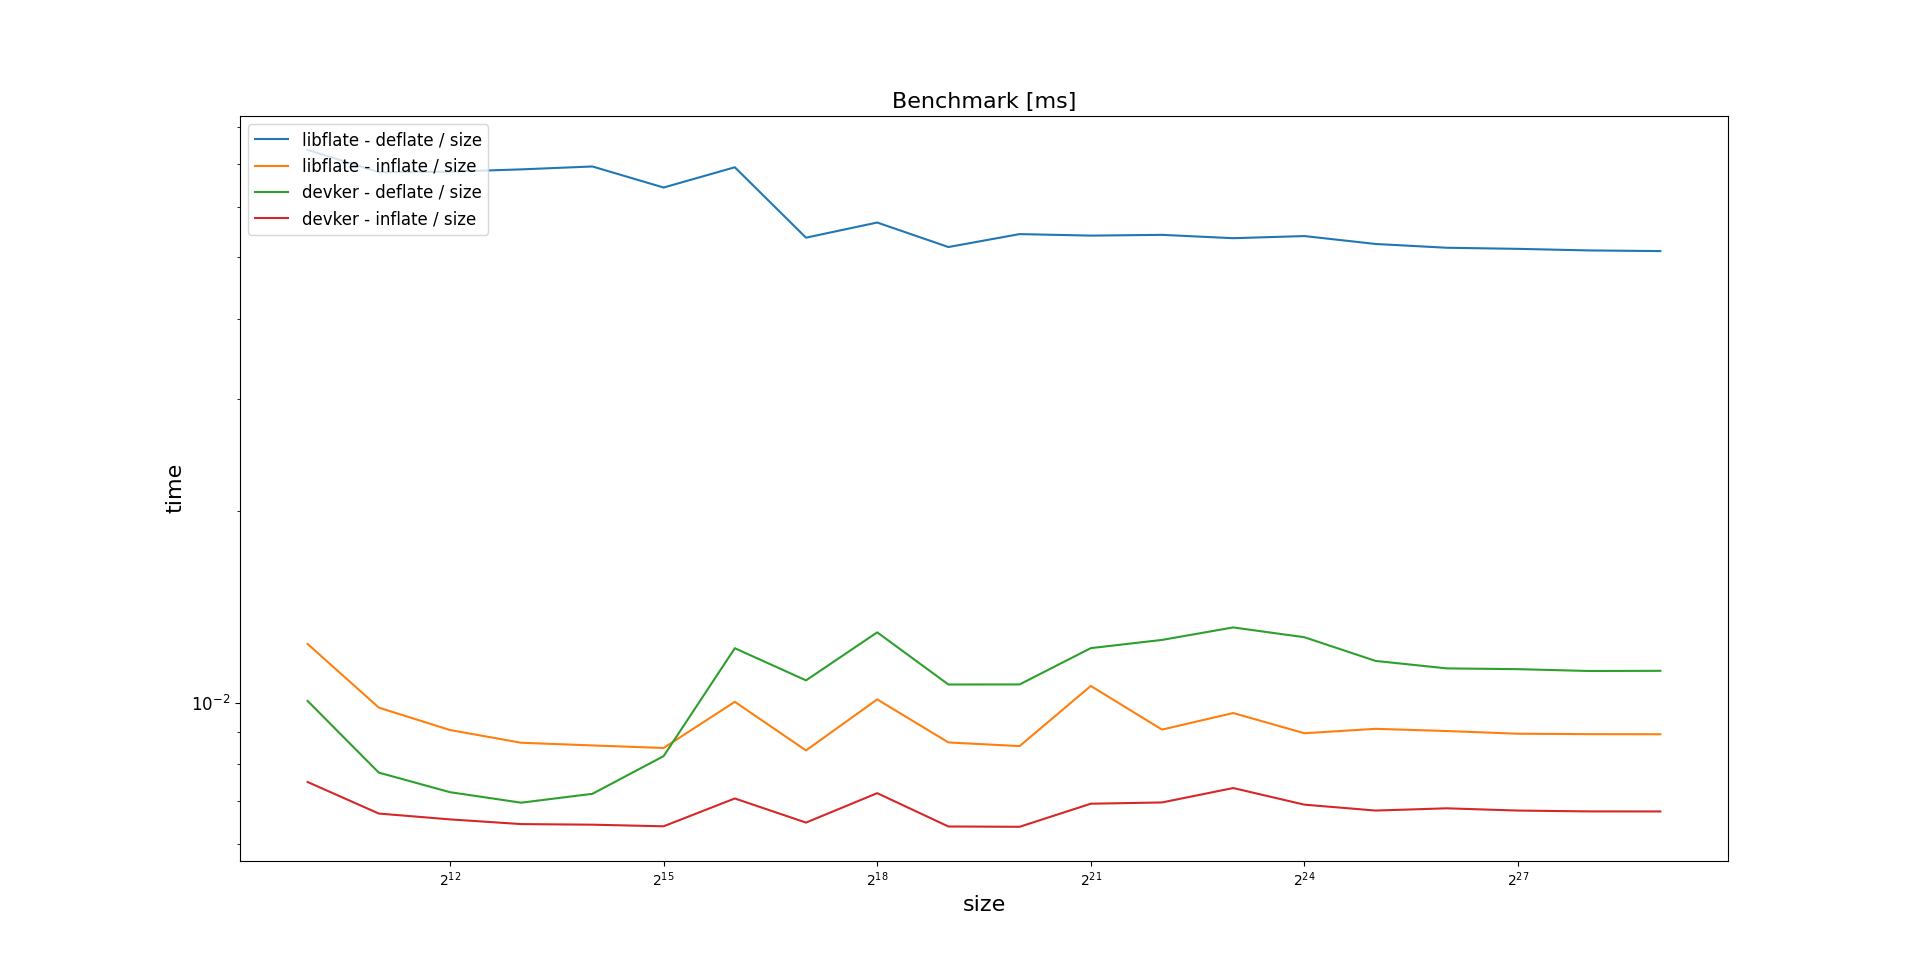
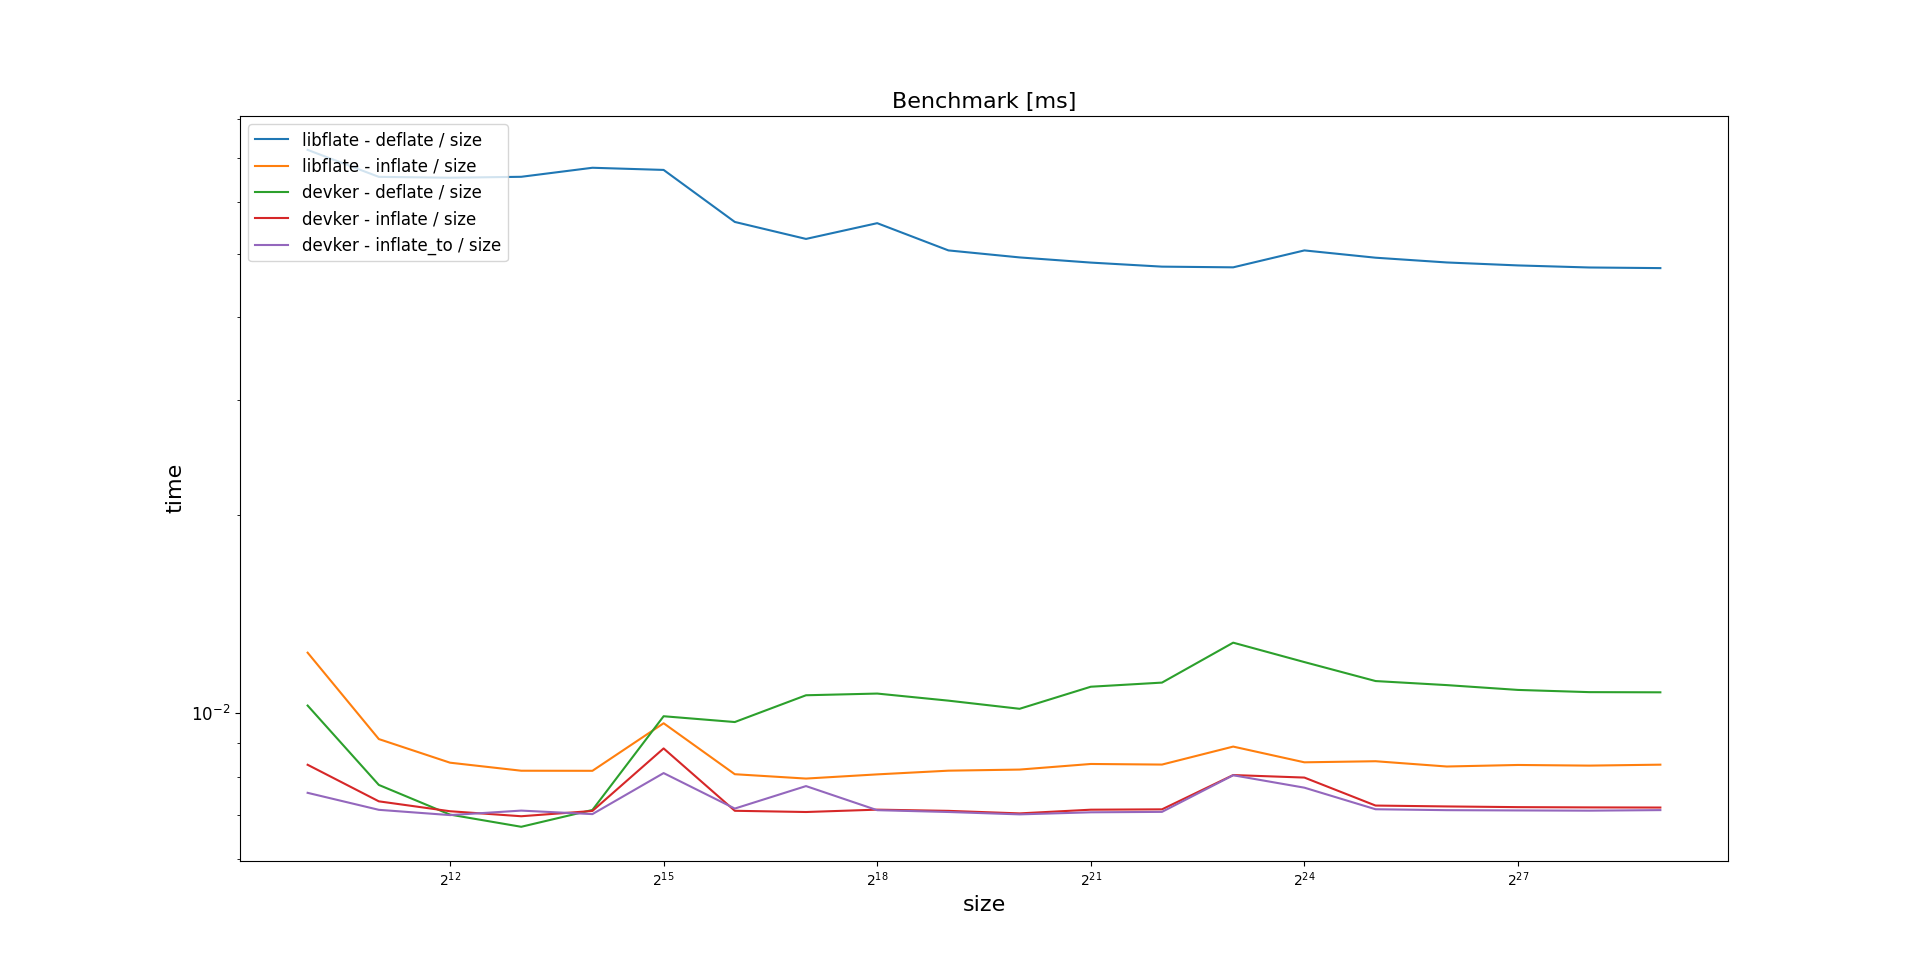
Improve performance of inflate + inflate_to

diff --git a/src/deflate.rs b/src/deflate.rs
@@ -53,6 +53,7 @@ use crate::prelude::{BlockType, Cache};
 const ERROR_BUFFER: &str = "Buffer overflow.";
 const ERROR_COMPLEMENT: &str = "LEN is not the one's complement of NLEN.";
 const ERROR_LENGTH: &str = "Invalid length.";
+const ERROR_POSITION: &str = "One distance is greater than current index.";
 const ERROR_PREVIOUS: &str = "No previous value.";
 const ERROR_RESERVED: &str = "Reserved btype.";
 const ERROR_VALUE: &str = "Invalid value decoded.";
@@ -148,7 +149,6 @@ impl<'a> Reader<'a> {
         Ok(())
     }
     fn load_widthes(&mut self, code: u16, last: Option<u8>) -> Result<Box<IterU8>, String> {
-        self.check_last_error()?;
         Ok(match code {
             0..=15 => Box::new(std::iter::once(code as u8)),
             16 => {
@@ -170,16 +170,22 @@ impl<'a> Reader<'a> {
             _ => return Err(ERROR_WIDTHES.into()),
         })
     }
-    fn fill(&mut self, v_out: &mut Vec<u8>, len: usize) -> Result<(), String> {
-        self.check_last_error()?;
+    fn fill(&mut self, v_out: &mut Vec<u8>, len: usize) {
         if self.v_in.len() < len {
-            return Err(ERROR_BUFFER.into());
+            self.last_error = Some(ERROR_BUFFER);
+            return;
         }
         v_out.reserve(len);
         let mut array = vec![0; len];
         (&mut array).copy_from_slice(&self.v_in[..len]);
         v_out.extend(array);
-        Ok(())
+    }
+    fn fill_to(&mut self, v_out: &mut [u8], pos: usize, len: usize) {
+        if self.v_in.len() < len || v_out.len() < pos + len {
+            self.last_error = Some(ERROR_BUFFER);
+            return;
+        }
+        (&mut v_out[pos..pos + len]).copy_from_slice(&self.v_in[..len]);
     }
 }
 impl<'a> HuffmanDecoder<'a> {
@@ -310,25 +316,25 @@ impl<'a> HuffmanDecoder<'a> {
         }
         eob_width
     }
-    fn decode(&self, reader: &mut Reader) -> Result<Code, String> {
+    fn decode(&self, reader: &mut Reader) -> Code {
         let code = reader.peek_bits(self.eob_width);
         let mut bits = Bits::from(self.literal[code as usize]);
         if bits.width > self.eob_width {
             let code = reader.peek_bits(self.max_lwidth);
             bits = Bits::from(self.literal[code as usize]);
             if bits.width > self.max_lwidth {
-                return Err(ERROR_WIDTH.into());
+                reader.last_error = Some(ERROR_WIDTH);
+                return Code::EndOfBlock;
             }
         }
         reader.skip_bits(bits.width);
-        reader.check_last_error()?;
 
-        Ok(match bits.data {
+        match bits.data {
             0..=255 => Code::Literal(bits.data as u8),
             256 => Code::EndOfBlock,
-            length_code @ 257..=285 => {
-                let (code_base_length, width_length) = LENGTH_TABLE[length_code as usize - 257];
-                let bits_length = reader.read_bits(width_length);
+            257..=285 => {
+                let (code_base_length, width_length) = LENGTH_TABLE[bits.data as usize - 257];
+                let bits_length = reader.read_bits(width_length) as u8;
 
                 let code = reader.get_code(self.distance, self.max_dwidth);
 
@@ -336,13 +342,40 @@ impl<'a> HuffmanDecoder<'a> {
                 let bits_distance = reader.read_bits(width_distance);
 
                 Code::Pointer {
-                    length: code_base_length + bits_length as u8,
+                    length: code_base_length + bits_length,
                     distance: code_base_distance + bits_distance,
                 }
             }
-            _ => return Err(ERROR_VALUE.into()),
-        })
+            _ => {
+                reader.last_error = Some(ERROR_VALUE);
+                Code::EndOfBlock
+            }
+        }
     }
+}
+// Functions.
+pub fn extend_to(buf: &mut [u8], mut pos: usize, mut d: usize, mut l: usize) -> Result<(), String> {
+    if pos < d {
+        return Err(ERROR_POSITION.into());
+    }
+    if buf.len() < pos + l {
+        return Err(ERROR_BUFFER.into());
+    }
+    let start = pos - d;
+
+    // Copy bytes fastly
+    while l >= d {
+        let (left, right) = (&mut buf[start..pos + d]).split_at_mut(d);
+        right.copy_from_slice(left);
+        pos += d;
+        l -= d;
+        d *= 2;
+    }
+
+    // Copy the last remaining bytes
+    let (left, right) = (&mut buf[start..pos + l]).split_at_mut(d);
+    right.copy_from_slice(&left[..l]);
+    Ok(())
 }
 // Main functions.
 pub fn deflate(v_in: &[u8], btype: BlockType, cache: &mut Cache) -> Vec<u8> {
@@ -375,12 +408,13 @@ pub fn inflate(v_in: &[u8], cache: &mut Cache) -> Result<Vec<u8>, String> {
                 if !len != nlen {
                     return Err(ERROR_COMPLEMENT.into());
                 }
-                reader.fill(&mut v_out, len as usize)?;
+                reader.fill(&mut v_out, len as usize);
             }
             btype => {
                 let decoder = HuffmanDecoder::new(BlockType::from(btype), &mut reader, buf)?;
+                reader.check_last_error()?;
                 loop {
-                    let x = decoder.decode(&mut reader)?;
+                    let x = decoder.decode(&mut reader);
                     match x {
                         Code::EndOfBlock => break,
                         Code::Literal(a) => v_out.push(a),
@@ -393,5 +427,61 @@ pub fn inflate(v_in: &[u8], cache: &mut Cache) -> Result<Vec<u8>, String> {
             }
         }
     }
+    reader.check_last_error()?;
     Ok(v_out)
+}
+
+pub fn inflate_to(v_in: &[u8], cache: &mut Cache, v_out: &mut [u8]) -> Result<(), String> {
+    // Variable Initialization.
+    let buf = cache.inner_mut();
+    let mut reader = Reader::new(v_in);
+    let mut bfinal = 0;
+    let mut i = 0;
+
+    // Algorithms.
+    while bfinal == 0 {
+        bfinal = reader.read_bits(1);
+        let btype = reader.read_bits(2);
+        reader.check_last_error()?;
+        match btype {
+            0b11 => return Err(ERROR_RESERVED.into()),
+            0b00 => {
+                reader.reset();
+                let len = reader.read_u16();
+                let nlen = reader.read_u16();
+                if !len != nlen {
+                    return Err(ERROR_COMPLEMENT.into());
+                }
+                let len = len as usize;
+                reader.fill_to(v_out, i, len);
+                i += len;
+            }
+            btype => {
+                let decoder = HuffmanDecoder::new(BlockType::from(btype), &mut reader, buf)?;
+                reader.check_last_error()?;
+                loop {
+                    let x = decoder.decode(&mut reader);
+                    match x {
+                        Code::EndOfBlock => break,
+                        Code::Literal(a) => {
+                            if i >= v_out.len() {
+                                return Err(ERROR_BUFFER.into());
+                            }
+                            v_out[i] = a;
+                            i += 1;
+                        }
+                        Code::Pointer {
+                            distance: d,
+                            length: l,
+                        } => {
+                            let l = l as usize + 3;
+                            extend_to(v_out, i, d as usize, l)?;
+                            i += l;
+                        }
+                    }
+                }
+            }
+        }
+    }
+    reader.check_last_error()
 }

diff --git a/bench_compression/src/bench.rs b/bench_compression/src/bench.rs
@@ -1,7 +1,7 @@
-use devker::prelude::{deflate, inflate, BlockType, Cache};
+use devker::prelude::{deflate, inflate, inflate_to, BlockType, Cache};
 use libflate::deflate::{Decoder, EncodeOptions, Encoder};
-use std::io::prelude::*;
 use rand::{thread_rng, Rng};
+use std::io::prelude::*;
 const MIN_SIZE: usize = 10;
 const MAX_SIZE: usize = 30;
 const NTIME: usize = 2;
@@ -17,9 +17,9 @@ fn block0(v_in: &[u8]) -> (f64, f64) {
 
     let time0 = sec as f64 * 1_000_000_000. + subsec as f64;
 
+    let mut decoded = Vec::with_capacity(v_in.len());
     let now = std::time::Instant::now();
     let mut decoder = Decoder::new(&encoded[..]);
-    let mut decoded = Vec::new();
     decoder.read_to_end(&mut decoded).unwrap();
     let sec = now.elapsed().as_secs();
     let subsec = now.elapsed().subsec_nanos();
@@ -30,12 +30,12 @@ fn block0(v_in: &[u8]) -> (f64, f64) {
     (time0, time1)
 }
 
-fn block1(v_in: &[u8], cache: &mut Cache) -> (f64, f64) {
+fn block1(v_in: &[u8], cache: &mut Cache) -> (f64, f64, f64) {
     let now = std::time::Instant::now();
     let encoded = deflate(&v_in, BlockType::Fixed, cache);
     let sec = now.elapsed().as_secs();
     let subsec = now.elapsed().subsec_nanos();
-    
+
     let time0 = sec as f64 * 1_000_000_000. + subsec as f64;
 
     let now = std::time::Instant::now();
@@ -46,7 +46,17 @@ fn block1(v_in: &[u8], cache: &mut Cache) -> (f64, f64) {
     let time1 = sec as f64 * 1_000_000_000. + subsec as f64;
 
     assert_eq!(v_in, &decoded[..]);
-    (time0, time1)
+
+    let mut decoded = vec![0; v_in.len()];
+    let now = std::time::Instant::now();
+    inflate_to(&encoded, cache, &mut decoded).unwrap();
+    let sec = now.elapsed().as_secs();
+    let subsec = now.elapsed().subsec_nanos();
+
+    let time2 = sec as f64 * 1_000_000_000. + subsec as f64;
+
+    assert_eq!(v_in, &decoded[..]);
+    (time0, time1, time2)
 }
 
 fn main() {
@@ -55,6 +65,7 @@ fn main() {
     let mut file1 = std::fs::File::create("bench/libflate_inflate.csv").unwrap();
     let mut file2 = std::fs::File::create("bench/devker_deflate.csv").unwrap();
     let mut file3 = std::fs::File::create("bench/devker_inflate.csv").unwrap();
+    let mut file4 = std::fs::File::create("bench/devker_inflate_to.csv").unwrap();
 
     for i in MIN_SIZE..MAX_SIZE {
         let size = 1 << i;
@@ -64,6 +75,7 @@ fn main() {
         let mut time1 = 0.;
         let mut time2 = 0.;
         let mut time3 = 0.;
+        let mut time4 = 0.;
 
         for _ in 0..NTIME {
             let time = block0(&v_in);
@@ -72,16 +84,19 @@ fn main() {
             let time = block1(&v_in, &mut cache);
             time2 += time.0;
             time3 += time.1;
+            time4 += time.2;
         }
 
         time0 /= NTIME as f64;
         time1 /= NTIME as f64;
         time2 /= NTIME as f64;
         time3 /= NTIME as f64;
+        time4 /= NTIME as f64;
 
         let _ = write!(file0, "{},{}\n", size, time0);
         let _ = write!(file1, "{},{}\n", size, time1);
         let _ = write!(file2, "{},{}\n", size, time2);
         let _ = write!(file3, "{},{}\n", size, time3);
+        let _ = write!(file4, "{},{}\n", size, time4);
     }
 }

diff --git a/bench_compression/src/wiki.rs b/bench_compression/src/wiki.rs
@@ -1,4 +1,4 @@
-use devker::prelude::{deflate, inflate, BlockType, Cache};
+use devker::prelude::{deflate, inflate, inflate_to, BlockType, Cache};
 use libflate::deflate::{Decoder, EncodeOptions, Encoder};
 use std::io::prelude::*;
 const NTIME: usize = 3;
@@ -18,9 +18,9 @@ fn block0(v_in: &[u8]) {
         encoded.len()
     );
 
+    let mut decoded = Vec::with_capacity(v_in.len());
     let now = std::time::Instant::now();
     let mut decoder = Decoder::new(&encoded[..]);
-    let mut decoded = Vec::new();
     decoder.read_to_end(&mut decoded).unwrap();
     let sec = now.elapsed().as_secs();
     let subsec = now.elapsed().subsec_nanos();
@@ -30,7 +30,6 @@ fn block0(v_in: &[u8]) {
         subsec,
         decoded.len()
     );
-
     assert_eq!(v_in, &decoded[..]);
 }
 
@@ -56,7 +55,19 @@ fn block1(v_in: &[u8], cache: &mut Cache) {
         subsec,
         decoded.len()
     );
+    assert_eq!(v_in, &decoded[..]);
 
+    let mut decoded = vec![0; v_in.len()];
+    let now = std::time::Instant::now();
+    inflate_to(&encoded, cache, &mut decoded).unwrap();
+    let sec = now.elapsed().as_secs();
+    let subsec = now.elapsed().subsec_nanos();
+    println!(
+        "time: {}.{:09} s - size: {} - inflate_to",
+        sec,
+        subsec,
+        decoded.len()
+    );
     assert_eq!(v_in, &decoded[..]);
 }
 

diff --git a/bench_compression/plot.py b/bench_compression/plot.py
@@ -47,10 +47,12 @@ ax = plt.subplot(111)
 # bench(BENCH_PATH + "libflate_inflate.csv", "libflate - inflate")
 # bench(BENCH_PATH + "devker_deflate.csv", "devker - deflate")
 # bench(BENCH_PATH + "devker_inflate.csv", "devker - inflate")
+# bench(BENCH_PATH + "devker_inflate_to.csv", "devker - inflate_to")
 bench_linear(BENCH_PATH + "libflate_deflate.csv", "libflate - deflate / size")
 bench_linear(BENCH_PATH + "libflate_inflate.csv", "libflate - inflate / size")
 bench_linear(BENCH_PATH + "devker_deflate.csv", "devker - deflate / size")
 bench_linear(BENCH_PATH + "devker_inflate.csv", "devker - inflate / size")
+bench_linear(BENCH_PATH + "devker_inflate_to.csv", "devker - inflate_to / size")
 
 ax.set_title('Benchmark [ms]', fontsize=16)
 ax.set_xlabel('size', fontsize=16)

diff --git a/src/lib.rs b/src/lib.rs
@@ -7,7 +7,7 @@
 pub mod prelude {
     pub use crate::btype::BlockType;
     pub use crate::cache::Cache;
-    pub use crate::deflate::{deflate, inflate};
+    pub use crate::deflate::{deflate, inflate, inflate_to};
 }
 
 mod bits;

diff --git a/bench_compression/README.md b/bench_compression/README.md
@@ -19,19 +19,22 @@ $ gzip -d enwiki-latest-all-titles-in-ns0.gz
 $ cargo run --release --bin wiki
 
 libflate
-time: 6.481724966 s - size: 116943701 - deflate 
-time: 1.461838843 s - size: 329839116 - inflate
-time: 6.385758042 s - size: 116943701 - deflate 
-time: 1.459047555 s - size: 329839116 - inflate
-time: 6.387020922 s - size: 116943701 - deflate 
-time: 1.471621869 s - size: 329839116 - inflate
+time: 6.375271453 s - size: 116943701 - deflate 
+time: 1.507718897 s - size: 329839116 - inflate
+time: 6.367969073 s - size: 116943701 - deflate 
+time: 1.509135068 s - size: 329839116 - inflate
+time: 6.371911262 s - size: 116943701 - deflate 
+time: 1.508372329 s - size: 329839116 - inflate
 devker
-time: 2.079220781 s - size: 125813886 - deflate
-time: 1.390934409 s - size: 329839116 - inflate
-time: 2.087242892 s - size: 125813886 - deflate
-time: 1.396040085 s - size: 329839116 - inflate
-time: 2.086336990 s - size: 125813886 - deflate
-time: 1.390870687 s - size: 329839116 - inflate
+time: 2.109853021 s - size: 125813886 - deflate
+time: 1.504122062 s - size: 329839116 - inflate
+time: 1.502997270 s - size: 329839116 - inflate_to
+time: 2.108059192 s - size: 125813886 - deflate
+time: 1.508975561 s - size: 329839116 - inflate
+time: 1.505576031 s - size: 329839116 - inflate_to
+time: 2.108160049 s - size: 125813886 - deflate
+time: 1.507358968 s - size: 329839116 - inflate
+time: 1.503677668 s - size: 329839116 - inflate_to
 ```
 
 bench
